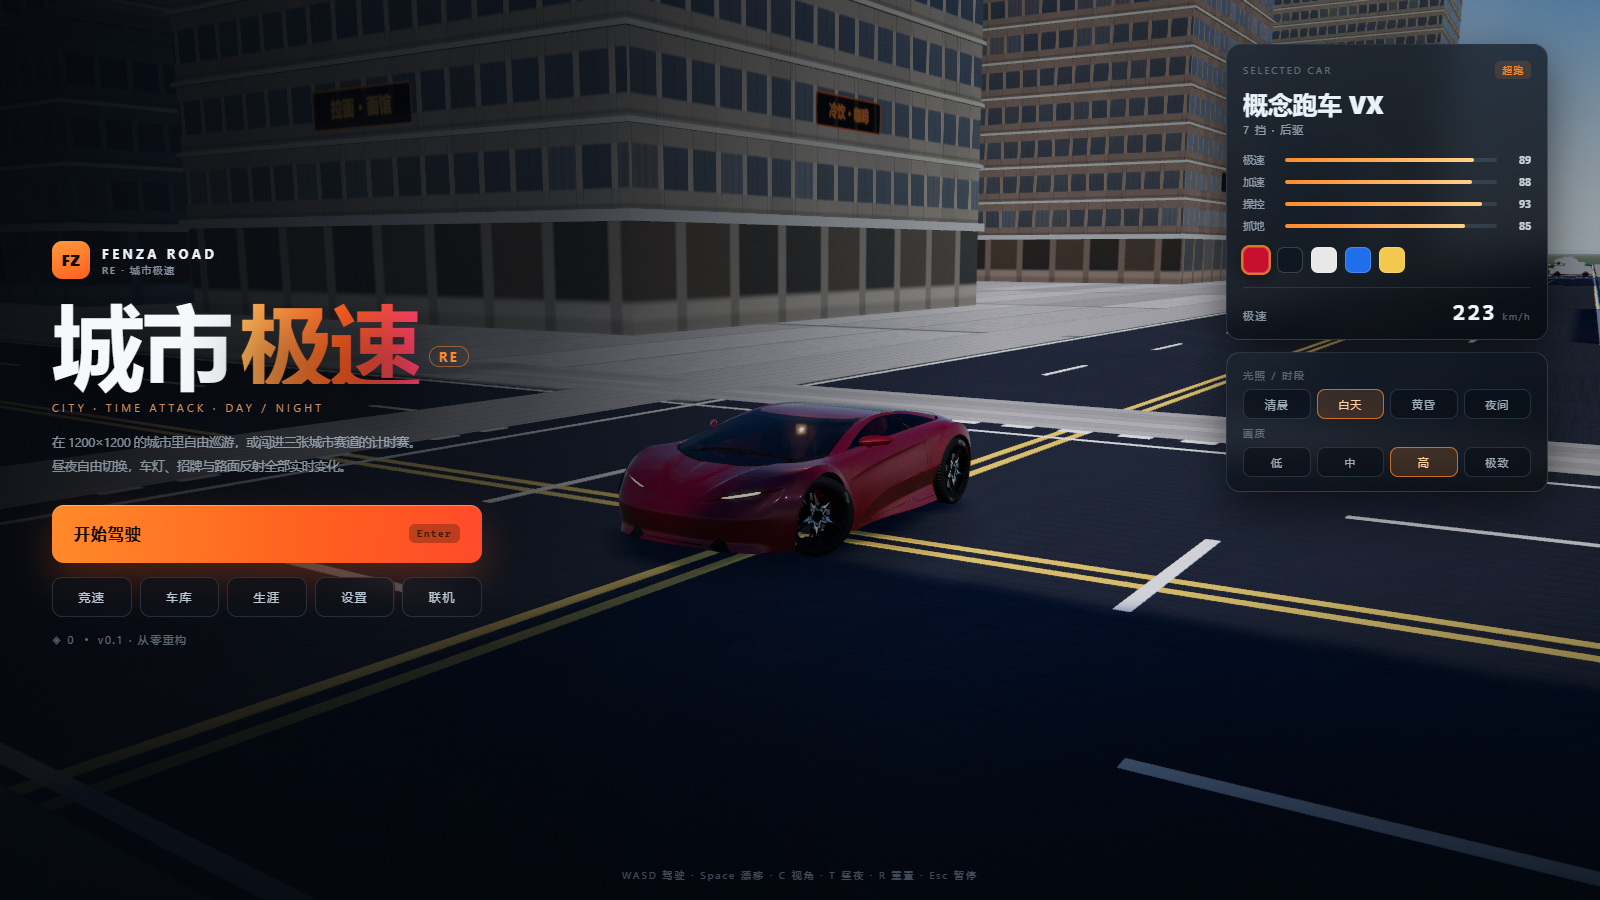
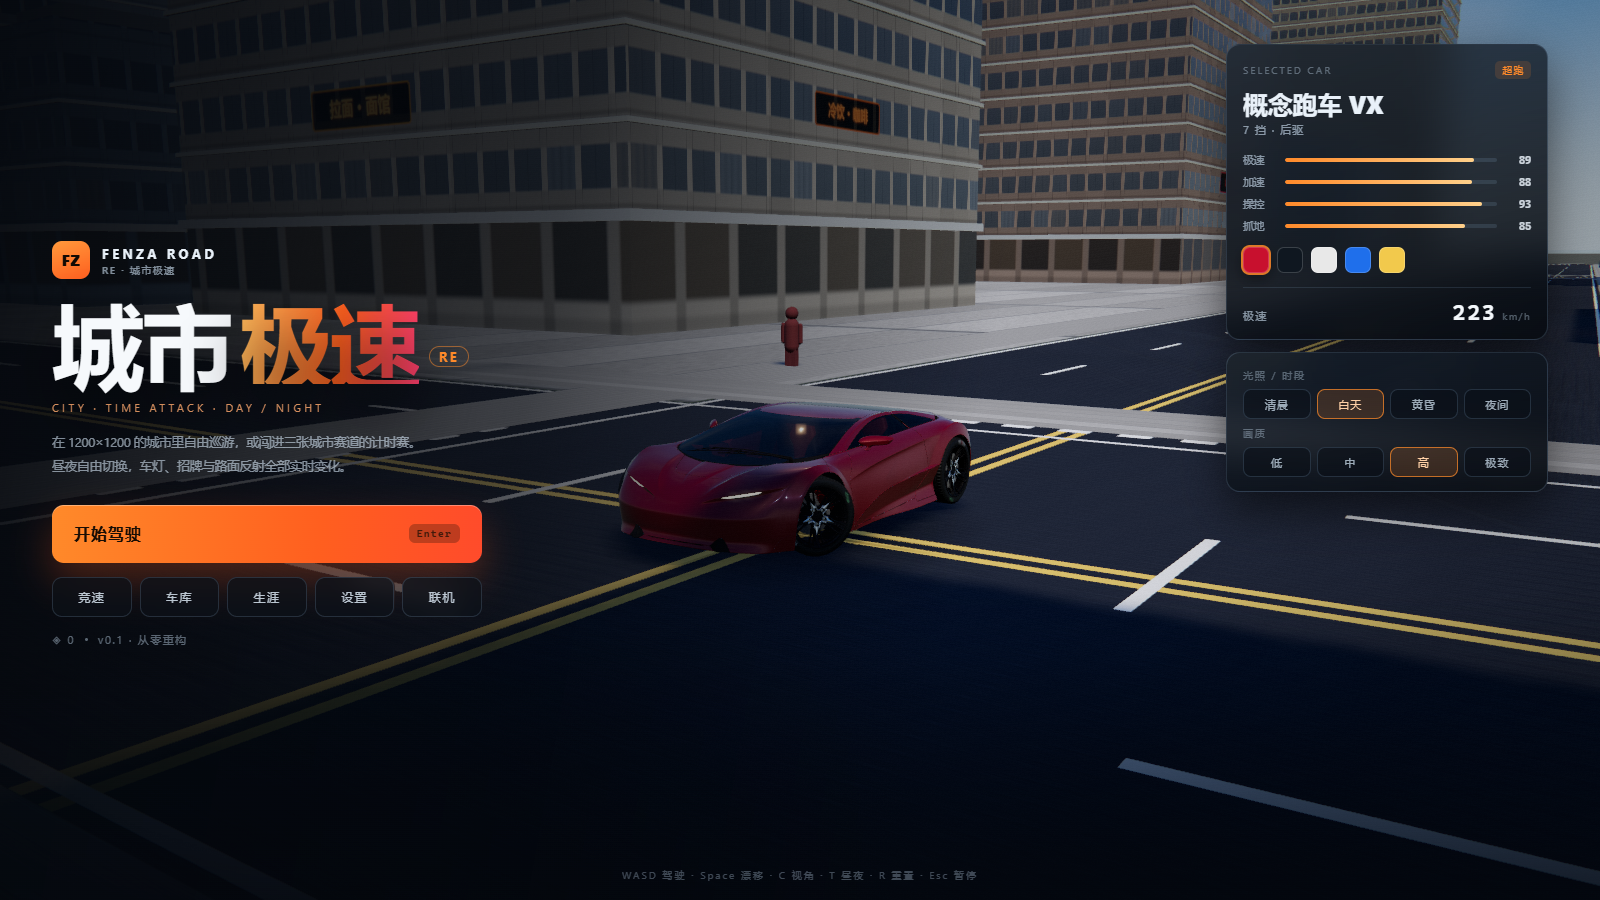
feat(visual): 交通车/AI 车挤出车身与玻璃 + 行人换形 + 城市围墙 + 车库展台

diff --git a/src/gameplay/Traffic.ts b/src/gameplay/Traffic.ts
@@ -16,23 +16,64 @@ interface TrafficCar {
 
 const COLORS = [0xd8d8d8, 0x2a2f36, 0x9aa3ad, 0x8c2f2f, 0x2f4f7a, 0xc9b48a, 0x3f6b4a, 0xb0b6bd];
 
-function box(w: number, h: number, d: number, x: number, y: number, z: number): THREE.BufferGeometry {
-  const g = new THREE.BoxGeometry(w, h, d);
-  g.translate(x, y, z);
-  return g;
+/** 用侧视轮廓挤出车身：比堆盒子更像车，且仍是一个几何体（1 次 draw） */
+function extrudeProfile(points: [number, number][], width: number, bevel = 0.045): THREE.BufferGeometry {
+  const shape = new THREE.Shape();
+  points.forEach(([z, y], index) => {
+    if (index === 0) shape.moveTo(z, y);
+    else shape.lineTo(z, y);
+  });
+  shape.closePath();
+  const geo = new THREE.ExtrudeGeometry(shape, {
+    depth: Math.max(0.1, width - bevel * 2),
+    bevelEnabled: true,
+    bevelSize: bevel,
+    bevelThickness: bevel,
+    bevelSegments: 1,
+    curveSegments: 2,
+    steps: 1,
+  });
+  // 轮廓在 (z=车长, y=高) 平面，挤出方向换成 X（车宽）
+  geo.rotateY(-Math.PI / 2);
+  geo.computeBoundingBox();
+  const bb = geo.boundingBox!;
+  geo.translate(-(bb.min.x + bb.max.x) / 2, 0, 0);
+  geo.computeVertexNormals();
+  return geo;
 }
 
-/** 交通车：车身 + 座舱合并为一个几何体，轮子单独一份（沿用同一实例矩阵） */
+/** 交通车：车身（挤出轮廓）+ 座舱玻璃（第二层）+ 车轮 */
 export function carBodies(): THREE.BufferGeometry {
-  return mergeGeometries(
+  return extrudeProfile(
     [
-      box(1.82, 0.62, 4.24, 0, 0.66, 0),
-      box(1.72, 0.46, 3.6, 0, 1.06, -0.06),
-      box(1.56, 0.52, 1.9, 0, 1.45, -0.28),
-      box(1.6, 0.16, 0.5, 0, 0.9, 2.1),
+      [2.14, 0.34],
+      [2.12, 0.64],
+      [1.94, 0.94],
+      [1.2, 1.02],
+      [0.56, 1.46],
+      [-0.66, 1.5],
+      [-1.52, 1.06],
+      [-2.04, 0.99],
+      [-2.14, 0.62],
+      [-2.02, 0.34],
     ],
-    false,
-  )!;
+    1.8,
+  );
+}
+
+/** 座舱玻璃：单独一层深色，套在车身上方 */
+export function carGlass(): THREE.BufferGeometry {
+  return extrudeProfile(
+    [
+      [1.18, 1.0],
+      [0.56, 1.43],
+      [-0.62, 1.47],
+      [-1.32, 1.03],
+      [1.18, 1.0],
+    ],
+    1.66,
+    0.03,
+  );
 }
 
 export function carWheels(): THREE.BufferGeometry {
@@ -58,6 +99,7 @@ export class Traffic {
   private readonly cars: TrafficCar[] = [];
   private readonly cache: { x: number; z: number; radius: number }[] = [];
   private readonly bodyMesh: THREE.InstancedMesh;
+  private readonly glassMesh: THREE.InstancedMesh;
   private readonly wheelMesh: THREE.InstancedMesh;
   private readonly transform = new THREE.Object3D();
   private readonly span: number;
@@ -81,15 +123,26 @@ export class Traffic {
       envMapIntensity: 1,
     });
     const wheelMat = new THREE.MeshStandardMaterial({ color: 0x14161a, roughness: 0.9 });
+    const glassMat = new THREE.MeshStandardMaterial({
+      color: 0x11171d,
+      roughness: 0.12,
+      metalness: 0.55,
+      envMapIntensity: 1.3,
+      transparent: true,
+      opacity: 0.88,
+    });
     this.bodyMesh = new THREE.InstancedMesh(carBodies(), bodyMat, count);
+    this.glassMesh = new THREE.InstancedMesh(carGlass(), glassMat, count);
     this.wheelMesh = new THREE.InstancedMesh(carWheels(), wheelMat, count);
     this.bodyMesh.castShadow = true;
     this.wheelMesh.castShadow = false;
     this.bodyMesh.name = 'traffic-bodies';
+    this.glassMesh.name = 'traffic-glass';
     this.wheelMesh.name = 'traffic-wheels';
     this.bodyMesh.instanceMatrix.setUsage(THREE.DynamicDrawUsage);
+    this.glassMesh.instanceMatrix.setUsage(THREE.DynamicDrawUsage);
     this.wheelMesh.instanceMatrix.setUsage(THREE.DynamicDrawUsage);
-    this.group.add(this.bodyMesh, this.wheelMesh);
+    this.group.add(this.bodyMesh, this.glassMesh, this.wheelMesh);
     scene.add(this.group);
 
     let state = seed >>> 0;
@@ -144,9 +197,11 @@ export class Traffic {
       this.transform.rotation.set(0, car.heading, 0);
       this.transform.updateMatrix();
       this.bodyMesh.setMatrixAt(i, this.transform.matrix);
+      this.glassMesh.setMatrixAt(i, this.transform.matrix);
       this.wheelMesh.setMatrixAt(i, this.transform.matrix);
     }
     this.bodyMesh.instanceMatrix.needsUpdate = true;
+    this.glassMesh.instanceMatrix.needsUpdate = true;
     this.wheelMesh.instanceMatrix.needsUpdate = true;
     this.cache.length = 0;
     for (const car of this.cars) this.cache.push({ x: car.x, z: car.z, radius: 1.15 });

diff --git a/src/main.ts b/src/main.ts
@@ -112,7 +112,7 @@ class Game {
 
     this.signage = new Signage(this.world.footprints, 150);
     this.scene.add(this.signage.group);
-    this.traffic = new Traffic(this.scene, 4, 48);
+    this.traffic = new Traffic(this.scene, WORLD.GRID_SIZE, 48);
 
     if (this.world.roadGeometry && this.engine.quality.reflection !== 'off') {
       const half = this.engine.quality.reflection === 'half' ? 0.5 : 0.4;
@@ -153,7 +153,7 @@ class Game {
       onClaimQuest: (id) => this.claimQuest(id),
       onClose: () => this.menu?.show(),
     });
-    this.peds = new Pedestrians(this.scene, 4, 72);
+    this.peds = new Pedestrians(this.scene, WORLD.GRID_SIZE, 72);
     this.tasks = new TaskPoints([
       { x: 300, z: 300, layoutIndex: 0, label: '城市环路' },
       { x: 750, z: 450, layoutIndex: 1, label: '城市巡回' },
@@ -436,15 +436,29 @@ class Game {
     );
 
     if (this.mode === 'menu') {
-      const radius = 12.8;
-      const angle = this.menuAngle + Math.sin(this.elapsed * 0.22) * 0.12;
-      this.camera.position.set(
-        x + Math.sin(angle) * radius,
-        3.1,
-        z + Math.cos(angle) * radius,
-      );
-      this.camera.lookAt(x, 0.92, z);
-      this.camera.fov = 42;
+      // 车库打开时切展台机位：绕车慢转、贴近车身，露出左侧 3D 车模
+      const showcase = this.garage.visible;
+      // 展台补光：白天也把车身打亮，夜里沿用时段强度
+      const stage = Math.max(TIME_PRESETS[this.timeId].lamp, showcase ? 0.55 : 0);
+      if (this.heroLight) this.heroLight.intensity = stage * 62;
+      if (this.heroFill) this.heroFill.intensity = stage * 28;
+      const radius = showcase ? 10.2 : 12.8;
+      const height = showcase ? 2.15 : 3.1;
+      const angle = showcase
+        ? this.menuAngle + this.elapsed * 0.26
+        : this.menuAngle + Math.sin(this.elapsed * 0.22) * 0.12;
+      const camX = x + Math.sin(angle) * radius;
+      const camZ = z + Math.cos(angle) * radius;
+      this.camera.position.set(camX, height, camZ);
+      if (showcase) {
+        // 面板占右侧：把注视点向右偏移，让车模落在左半屏
+        const fx = (x - camX) / radius;
+        const fz = (z - camZ) / radius;
+        this.camera.lookAt(x - fz * 1.55, 0.74, z + fx * 1.55);
+      } else {
+        this.camera.lookAt(x, 0.92, z);
+      }
+      this.camera.fov = showcase ? 38 : 42;
       this.camera.updateProjectionMatrix();
       return;
     }
@@ -1018,6 +1032,9 @@ async function main(): Promise<void> {
 }
 
 void main();
+
+
+
 
 
 

diff --git a/src/gameplay/AiRacers.ts b/src/gameplay/AiRacers.ts
@@ -1,9 +1,9 @@
 import * as THREE from 'three';
-import { carBodies, carWheels } from './Traffic';
+import { carBodies, carGlass, carWheels } from './Traffic';
 
 const AI_COLORS = [0x2f6bd8, 0xd83a3a, 0xf2c94c, 0x38c172, 0x8e5cd9, 0xe07a3c];
 
-/** AI 对手车：用交通车的轻量几何体（约 1k 三角），每台一个 Group */
+/** AI 对手车：复用交通车的低模车身 + 座舱玻璃 + 车轮，每台一个 Group */
 export class AiRacers {
   readonly group = new THREE.Group();
   private readonly items: { root: THREE.Group; body: THREE.Mesh; wheels: THREE.Mesh }[] = [];
@@ -11,7 +11,17 @@ export class AiRacers {
   constructor(scene: THREE.Scene, count: number) {
     this.group.name = 'ai-racers';
     const bodyGeo = carBodies();
+    const glassGeo = carGlass();
     const wheelGeo = carWheels();
+    const glassMat = new THREE.MeshStandardMaterial({
+      color: 0x10161c,
+      roughness: 0.1,
+      metalness: 0.6,
+      envMapIntensity: 1.4,
+      transparent: true,
+      opacity: 0.9,
+    });
+    const wheelMat = new THREE.MeshStandardMaterial({ color: 0x121418, roughness: 0.9 });
     for (let i = 0; i < count; i += 1) {
       const root = new THREE.Group();
       const body = new THREE.Mesh(
@@ -24,8 +34,9 @@ export class AiRacers {
         }),
       );
       body.castShadow = true;
-      const wheels = new THREE.Mesh(wheelGeo, new THREE.MeshStandardMaterial({ color: 0x121418, roughness: 0.9 }));
-      root.add(body, wheels);
+      const glass = new THREE.Mesh(glassGeo, glassMat);
+      const wheels = new THREE.Mesh(wheelGeo, wheelMat);
+      root.add(body, glass, wheels);
       this.group.add(root);
       this.items.push({ root, body, wheels });
     }

diff --git a/src/world/CityWorld.ts b/src/world/CityWorld.ts
@@ -45,6 +45,39 @@ export class CityWorld {
     this.addBuildings();
     this.addLamps();
     this.addTrees();
+    this.addBoundary();
+  }
+
+  /** 2.4m 围墙：把城市边界封住，避免开出城区看到草地/地平线 */
+  private addBoundary(): void {
+    const span = this.span;
+    const outer = 16;
+    const height = 2.4;
+    const thickness = 1.4;
+    const mat = new THREE.MeshStandardMaterial({ color: 0x7b7a72, roughness: 0.92, metalness: 0.04 });
+    const walls = [
+      { x: span / 2, z: -outer, w: span + outer * 2, d: thickness },
+      { x: span / 2, z: span + outer, w: span + outer * 2, d: thickness },
+      { x: -outer, z: span / 2, w: thickness, d: span + outer * 2 },
+      { x: span + outer, z: span / 2, w: thickness, d: span + outer * 2 },
+    ];
+    const geos: THREE.BufferGeometry[] = [];
+    for (const wall of walls) {
+      const g = new THREE.BoxGeometry(wall.w, height, wall.d);
+      g.translate(wall.x, height / 2, wall.z);
+      geos.push(g);
+      this.colliders.push({
+        minX: wall.x - wall.w / 2,
+        maxX: wall.x + wall.w / 2,
+        minZ: wall.z - wall.d / 2,
+        maxZ: wall.z + wall.d / 2,
+      });
+    }
+    const mesh = new THREE.Mesh(mergeGeometries(geos, false)!, mat);
+    mesh.name = 'city-boundary';
+    mesh.receiveShadow = true;
+    mesh.castShadow = true;
+    this.group.add(mesh);
   }
 
   setNight(value: number): void {

diff --git a/src/gameplay/Pedestrians.ts b/src/gameplay/Pedestrians.ts
@@ -29,13 +29,21 @@ export class Pedestrians {
     this.span = blocks * this.blockLength;
     this.group.name = 'pedestrians';
 
-    const body = new THREE.CylinderGeometry(0.22, 0.26, 1.1, 8);
-    body.translate(0, 0.8, 0);
-    const head = new THREE.SphereGeometry(0.19, 10, 8);
-    head.translate(0, 1.52, 0);
-    const legs = new THREE.BoxGeometry(0.34, 0.6, 0.22);
-    legs.translate(0, 0.3, 0);
-    const geometry = mergeGeometries([body, head, legs], false)!;
+    const body = new THREE.CapsuleGeometry(0.2, 0.52, 3, 8);
+    body.translate(0, 0.92, 0);
+    const head = new THREE.SphereGeometry(0.175, 10, 8);
+    head.translate(0, 1.5, 0);
+    const neck = new THREE.CylinderGeometry(0.08, 0.1, 0.12, 6);
+    neck.translate(0, 1.32, 0);
+    const legL = new THREE.BoxGeometry(0.13, 0.62, 0.17);
+    legL.translate(-0.09, 0.31, 0);
+    const legR = legL.clone();
+    legR.translate(0.18, 0, 0);
+    const armL = new THREE.CapsuleGeometry(0.065, 0.42, 2, 6);
+    armL.translate(-0.27, 0.98, 0);
+    const armR = armL.clone();
+    armR.translate(0.54, 0, 0);
+    const geometry = mergeGeometries([body, head, neck, legL, legR, armL, armR], false)!;
 
     const material = new THREE.MeshStandardMaterial({
       color: 0xffffff,

diff --git a/src/styles/screens.css b/src/styles/screens.css
@@ -319,3 +319,26 @@
 .career-achievements {
   grid-column: 1 / -1;
 }
+
+/* 车库展台：面板靠右，左侧留出 3D 车模展示区 */
+.garage {
+  place-items: center end;
+  padding: 0 3.2vw 0 0;
+  background: radial-gradient(125% 85% at 22% 55%, rgba(6, 10, 16, 0.1), rgba(4, 7, 12, 0.66));
+  backdrop-filter: none;
+}
+
+.garage .garage-panel {
+  width: min(640px, 48vw);
+}
+
+@media (max-width: 900px) {
+  .garage {
+    place-items: center;
+    padding: 0;
+    background: radial-gradient(120% 80% at 50% 45%, rgba(6, 10, 16, 0.5), rgba(4, 7, 12, 0.92));
+  }
+  .garage .garage-panel {
+    width: min(880px, 92vw);
+  }
+}

diff --git a/README.md b/README.md
@@ -12,15 +12,15 @@
 | 程序化天空（渐变/太阳/云/星空）+ PMREM 环境探针 + 四时段 | ✅ |
 | 湿路平面反射 + 车道标线 + 街区铺装 + 临街霓虹招牌 | ✅ |
 | 外部高模装配（Y-up 判定、车轮枢轴、车漆/玻璃/灯组、车底接触阴影） | ✅ |
-| 城市生成（1200×1200 / 8×8 街块 / 511 栋建筑 + 挑檐 + 屋顶设备 + 商铺橱窗 + 路灯/行道树） | ✅ |
+| 城市生成（1200×1200 / 8×8 街块 / 511 栋建筑 + 挑檐 + 屋顶设备 + 商铺橱窗 + 路灯/行道树 + 2.4m 围墙） | ✅ |
 | 驾驶（固定步长、自动变速、漂移、三视角、碰撞、震屏） | ✅ |
 | 座舱视角（隐藏车壳 + 内饰补光，仪表/方向盘可见） | ✅ |
 | 特效（胎痕、胎烟、雨幕 + 雨声 + 高速速度线） | ✅ |
-| 交通流 48 台 + 行人 72 名（可撞倒 + 金币/击杀统计） | ✅ |
+| 交通流 48 台（挤出车身 + 座舱玻璃）+ 行人 72 名（胶囊体人形，可撞倒） | ✅ |
 | 任务点（3 个发光圆环，开进即弹出对应赛道设置） | ✅ |
 | 触屏（虚拟摇杆 + 油门/刹车/漂移 + 视角键，`?touch=1` 强制开启） | ✅ |
 | 竞速闭环（3 赛道 / 检查点 / 倒计时 / AI / 排名 / 结算 / 奖励） | ✅ |
-| 车库（6 款车 / 涂装 / 购买装备 / 切换动力学参数） | ✅ |
+| 车库（6 款车 / 涂装 / 购买装备 / 切换动力学参数，主场景展台机位绕车展示） | ✅ |
 | 生涯（签到 / 每日任务 / 14 成就 / 统计 / 里程奖励） | ✅ |
 | 音频（三层引擎 / 风噪 / 胎噪 / 换挡 / 碰撞 / UI） | ✅ |
 | 暂停菜单（继续 / 重开 / 返回 / 时段 / 天气 / 静音） | ✅ |
@@ -83,6 +83,8 @@ docs/          蒸馏 / 美术规格 / 资产许可 / 状态
 - [docs/ART-BIBLE.md](docs/ART-BIBLE.md)：画质目标、色板、材质与 HUD 栅格
 - [docs/ASSETS.md](docs/ASSETS.md)：资产清单、许可与优化流程
 - [docs/STATUS.md](docs/STATUS.md)：里程碑进度、实测数据、已知缺口
+
+
 
 
 

diff --git a/docs/STATUS.md b/docs/STATUS.md
@@ -225,3 +225,11 @@
 - 新增夜间「英雄光」：车顶后侧暖色 62cd + 前侧冷色 28cd 点光（不投影，常驻避免重编译），暗场下车身轮廓可读。
 - 新增 `tools/gallery.mjs`：一次抓 6 张 1600×900 基准图（menu / garage / day-chase / night-chase / night-rain / cockpit），走独显渲染。
 - 回归：build + vitest 9 + e2e 12 全绿；高档行驶 149.7fps（1% low 54.6）。
+
+## Round 30：交通/行人换形 + 围墙 + 车库展台
+
+- 交通车与 AI 对手车改用「侧视轮廓挤出」车身（ExtrudeGeometry + 倒角，1 个几何体），并加独立座舱玻璃层；行人换成胶囊躯干 + 头 + 颈 + 双腿 + 双臂的合并几何体（仍各 1 draw）。
+- 城市边界补 2.4m 围墙（合并几何 + AABB 碰撞），开车到边缘不再看到草地/地平线。
+- 交通/行人覆盖范围修正为 `WORLD.GRID_SIZE`（此前仍按 4 街块，只覆盖西南角），数量保持计划书的 48/72。
+- 车库改成主场景展台：打开车库时相机切到绕车慢转机位（半径 10.2m / fov 38 / 注视点右移让车落在左半屏），面板靠右、取消背景模糊，并临时点亮英雄光；≤900px 返回居中布局。
+- 回归：build + vitest 9 + e2e 12 全绿。
